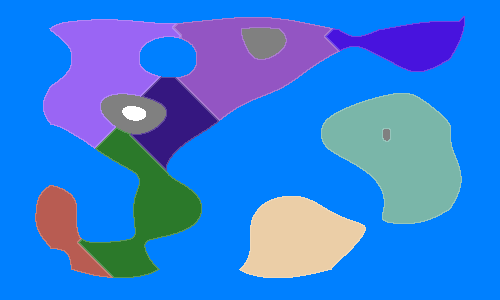
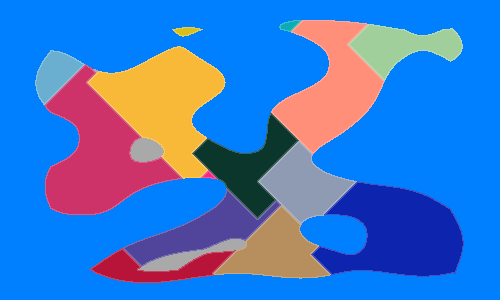
ColorHelper Colors expanded

diff --git a/Assets/Common/ColorHelper.cs b/Assets/Common/ColorHelper.cs
@@ -1,10 +1,15 @@
 using System.Collections.Generic;
+using System.Linq;
 using UnityEngine;
 
 public static class ColorHelper
 {
-    public static Color32 gray = new Color32(128, 128, 128, 255);
-    public static Color32 blue = new Color32(0, 128, 255, 255);
+    public static Color32 mountainGray = new Color32(169, 169, 169, 255);
+    public static Color32 deepSeaBlue = new Color32(0, 128, 255, 255);
+    public static Color32 shallowSeaBlue = new Color32(119, 183, 247, 255);
+    public static Color32 sandYellow = new Color32(240, 230, 140, 255);
+    public static Color32 snowWhite = new Color32(255, 255, 255, 255);
+    public static Color32 grassGreen = Color.green; //new Color32(0, 128, 0, 255);
 
     public static int borderAlpha = 200;
     public static Color32 borderColor = new Color32(59, 57, 43, 200);
@@ -16,9 +21,13 @@ public static class ColorHelper
         new Color32(25, 79, 30, 255), // Dark Forest Green
     };
 
-    public static List<Color32> ColorsUsedInTerrain = new List<Color32>() { Color.green, ColorHelper.blue, Color.white, ColorHelper.gray, Color.yellow };
-    public static List<Color32> UnselectableTerrainColors = new List<Color32>() { ColorHelper.blue, ColorHelper.gray, Color.white };
-    public static List<Color32> TerrainObstacleColors = new List<Color32>() { ColorHelper.blue, ColorHelper.gray };
+    public static List<Color32> SeaColors = new List<Color32>() { ColorHelper.deepSeaBlue, ColorHelper.shallowSeaBlue };
+    public static List<Color32> MountainColors = new List<Color32>() { ColorHelper.mountainGray, ColorHelper.snowWhite };
+    public static List<Color32> LandColors = new List<Color32>() { ColorHelper.grassGreen, ColorHelper.sandYellow };
+
+    public static List<Color32> ColorsUsedInTerrain = new List<Color32>(ColorHelper.LandColors.Concat(ColorHelper.SeaColors).Concat(ColorHelper.MountainColors));
+    public static List<Color32> UnselectableTerrainColors = new List<Color32>(ColorHelper.MountainColors.Concat(ColorHelper.SeaColors));
+    public static List<Color32> TerrainObstacleColors = new List<Color32>(ColorHelper.MountainColors.Concat(ColorHelper.SeaColors));
     public static bool ColorListContainsColor(List<Color32> colorList, Color32 color)
     {
         // Check if the color is in the list (exact comparison)

diff --git a/Assets/MapGenerator/TerrainGenerator.cs b/Assets/MapGenerator/TerrainGenerator.cs
@@ -53,25 +53,25 @@ public class TerrainGenerator
                 // sea
                 if (noiseValue <= waterThreshold)
                 {
-                    pixels[y * mapWidth + x] = ColorHelper.blue;
+                    pixels[y * mapWidth + x] = ColorHelper.deepSeaBlue;
                 }
 
                 // beach
                 if (noiseValue > waterThreshold && noiseValue <= beachThreshold)
                 {
-                    pixels[y * mapWidth + x] = Color.yellow;
+                    pixels[y * mapWidth + x] = ColorHelper.sandYellow;
                 }
 
                 // land
                 if (noiseValue > beachThreshold && noiseValue <= grassThreshold)
                 {
-                    pixels[y * mapWidth + x] = Color.green;
+                    pixels[y * mapWidth + x] = ColorHelper.grassGreen;
                 }
 
                 // mountain
                 if (noiseValue > grassThreshold && noiseValue <= mountainThreshold)
                 {
-                    pixels[y * mapWidth + x] = ColorHelper.gray;
+                    pixels[y * mapWidth + x] = ColorHelper.mountainGray;
                 }
 
                 // snow

diff --git a/Assets/MapGenerator/ProvincesGenerator.cs b/Assets/MapGenerator/ProvincesGenerator.cs
@@ -29,7 +29,7 @@ public class ProvincesGenerator
                 for (var y = 0; y < mapSize.y; y++)
                 {
                     var pixelColor = provinces[y * mapSize.x + x];
-                    if (pixelColor == Color.green || pixelColor == Color.yellow)
+                    if (pixelColor.Equals(ColorHelper.grassGreen) || pixelColor.Equals(ColorHelper.sandYellow))
                     {
                         found = true;
                         startingPosition.x = x;
@@ -41,7 +41,7 @@ public class ProvincesGenerator
             if (found)
             {
                 var size = UnityEngine.Random.Range(provincesMaxSize / 2, provincesMaxSize);
-                var colorsToReplace = new Color32[] { Color.green, Color.yellow };
+                var colorsToReplace = ColorHelper.LandColors.ToArray();
                 var stateColor = ColorHelper.AddNewRandomColorToList(provinceColors);
                 PaintHelper.FloodPaint(provinces, mapSize.x, mapSize.y, startingPosition, colorsToReplace, stateColor, size);
             }
